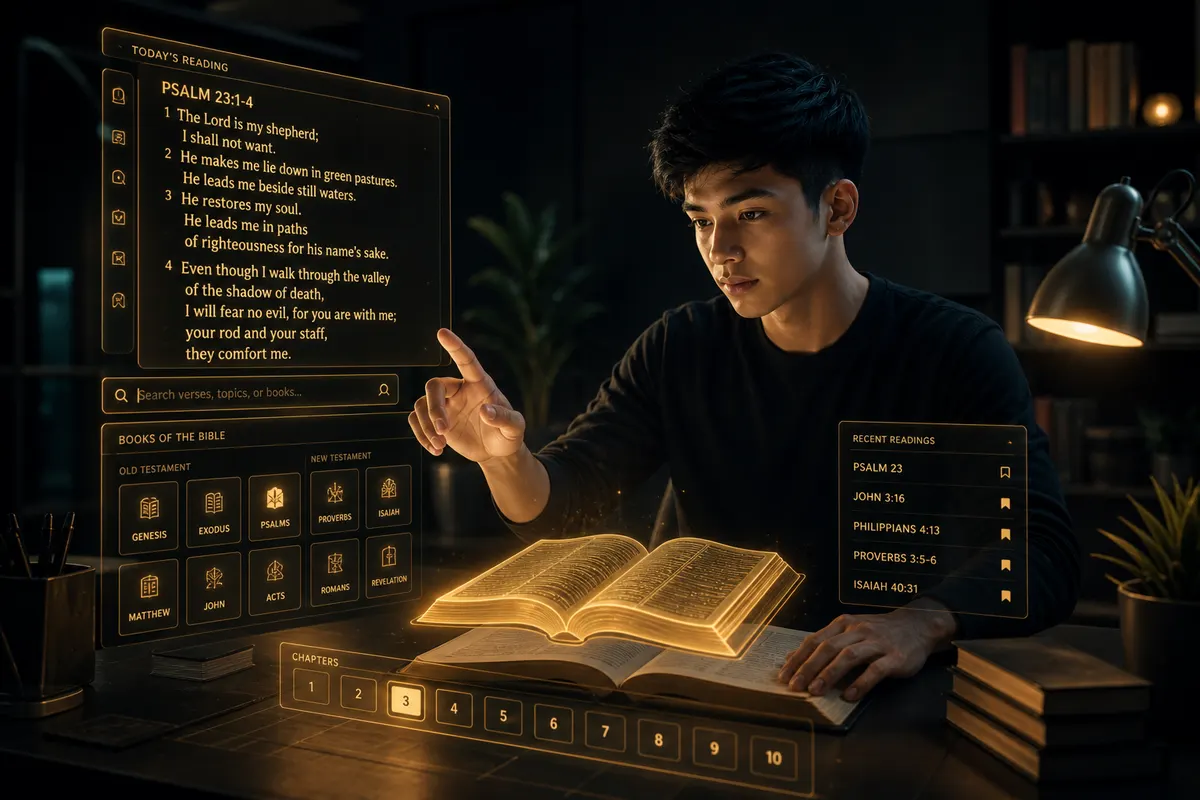
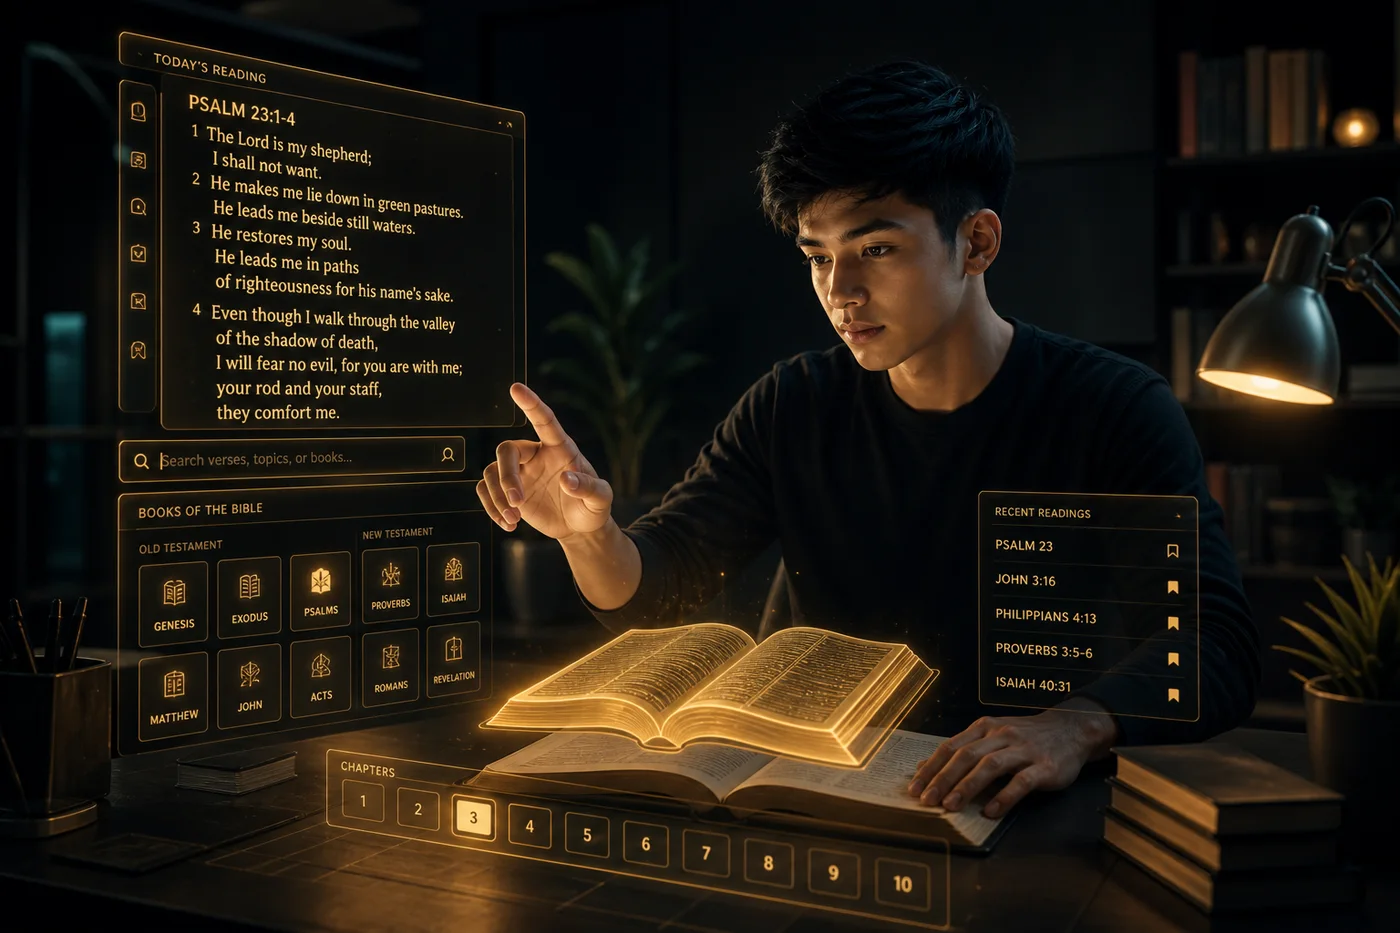
improve the image

diff --git a/src/constants/projects.ts b/src/constants/projects.ts
@@ -30,7 +30,7 @@ export const projects: Project[] = [
     title: "CBC Church Management System",
     description:
       "Staff portal for church records—members, families, events, attendance, and notices—with login and role-based access. Built as a client learning project.",
-    image: "/projects/cbc-church-management/cover.webp",
+    image: "/projects/cbc-church-management/cover-ai.webp",
     technologies: [
       "React",
       "Django REST",

diff --git a/src/components/sections/BlogCard.tsx b/src/components/sections/BlogCard.tsx
@@ -6,7 +6,11 @@ import { formatBlogDate } from "@/lib/format-blog-date";
 import { cn } from "@/lib/utils";
 
 function isCoverArt(image: string) {
-  return image.includes("/cover") || image.includes("-cover");
+  return (
+    image.includes("/cover") ||
+    image.includes("-cover") ||
+    image.includes("cover-ai")
+  );
 }
 
 export function BlogCard({ post }: { post: LearningPost }) {

diff --git a/src/components/sections/ProjectCard.tsx b/src/components/sections/ProjectCard.tsx
@@ -12,7 +12,11 @@ type ProjectCardProps = {
 };
 
 function isCoverArt(image: string) {
-  return image.includes("/cover") || image.includes("-cover");
+  return (
+    image.includes("/cover") ||
+    image.includes("-cover") ||
+    image.includes("cover-ai")
+  );
 }
 
 export function ProjectCard({ project, layout = "vertical" }: ProjectCardProps) {

diff --git a/src/constants/capstone.ts b/src/constants/capstone.ts
@@ -50,7 +50,7 @@ export const capstoneProject = {
     "Vercel",
   ] as const,
   featuredImage: {
-    src: "/projects/barnabas-dental-clinic/cover.webp",
+    src: "/projects/barnabas-dental-clinic/cover-ai.webp",
     alt: "Barnabas Dental Clinic — stylized project cover",
   },
   caseStudyUrl: "/blog/barnabas-system-study",
